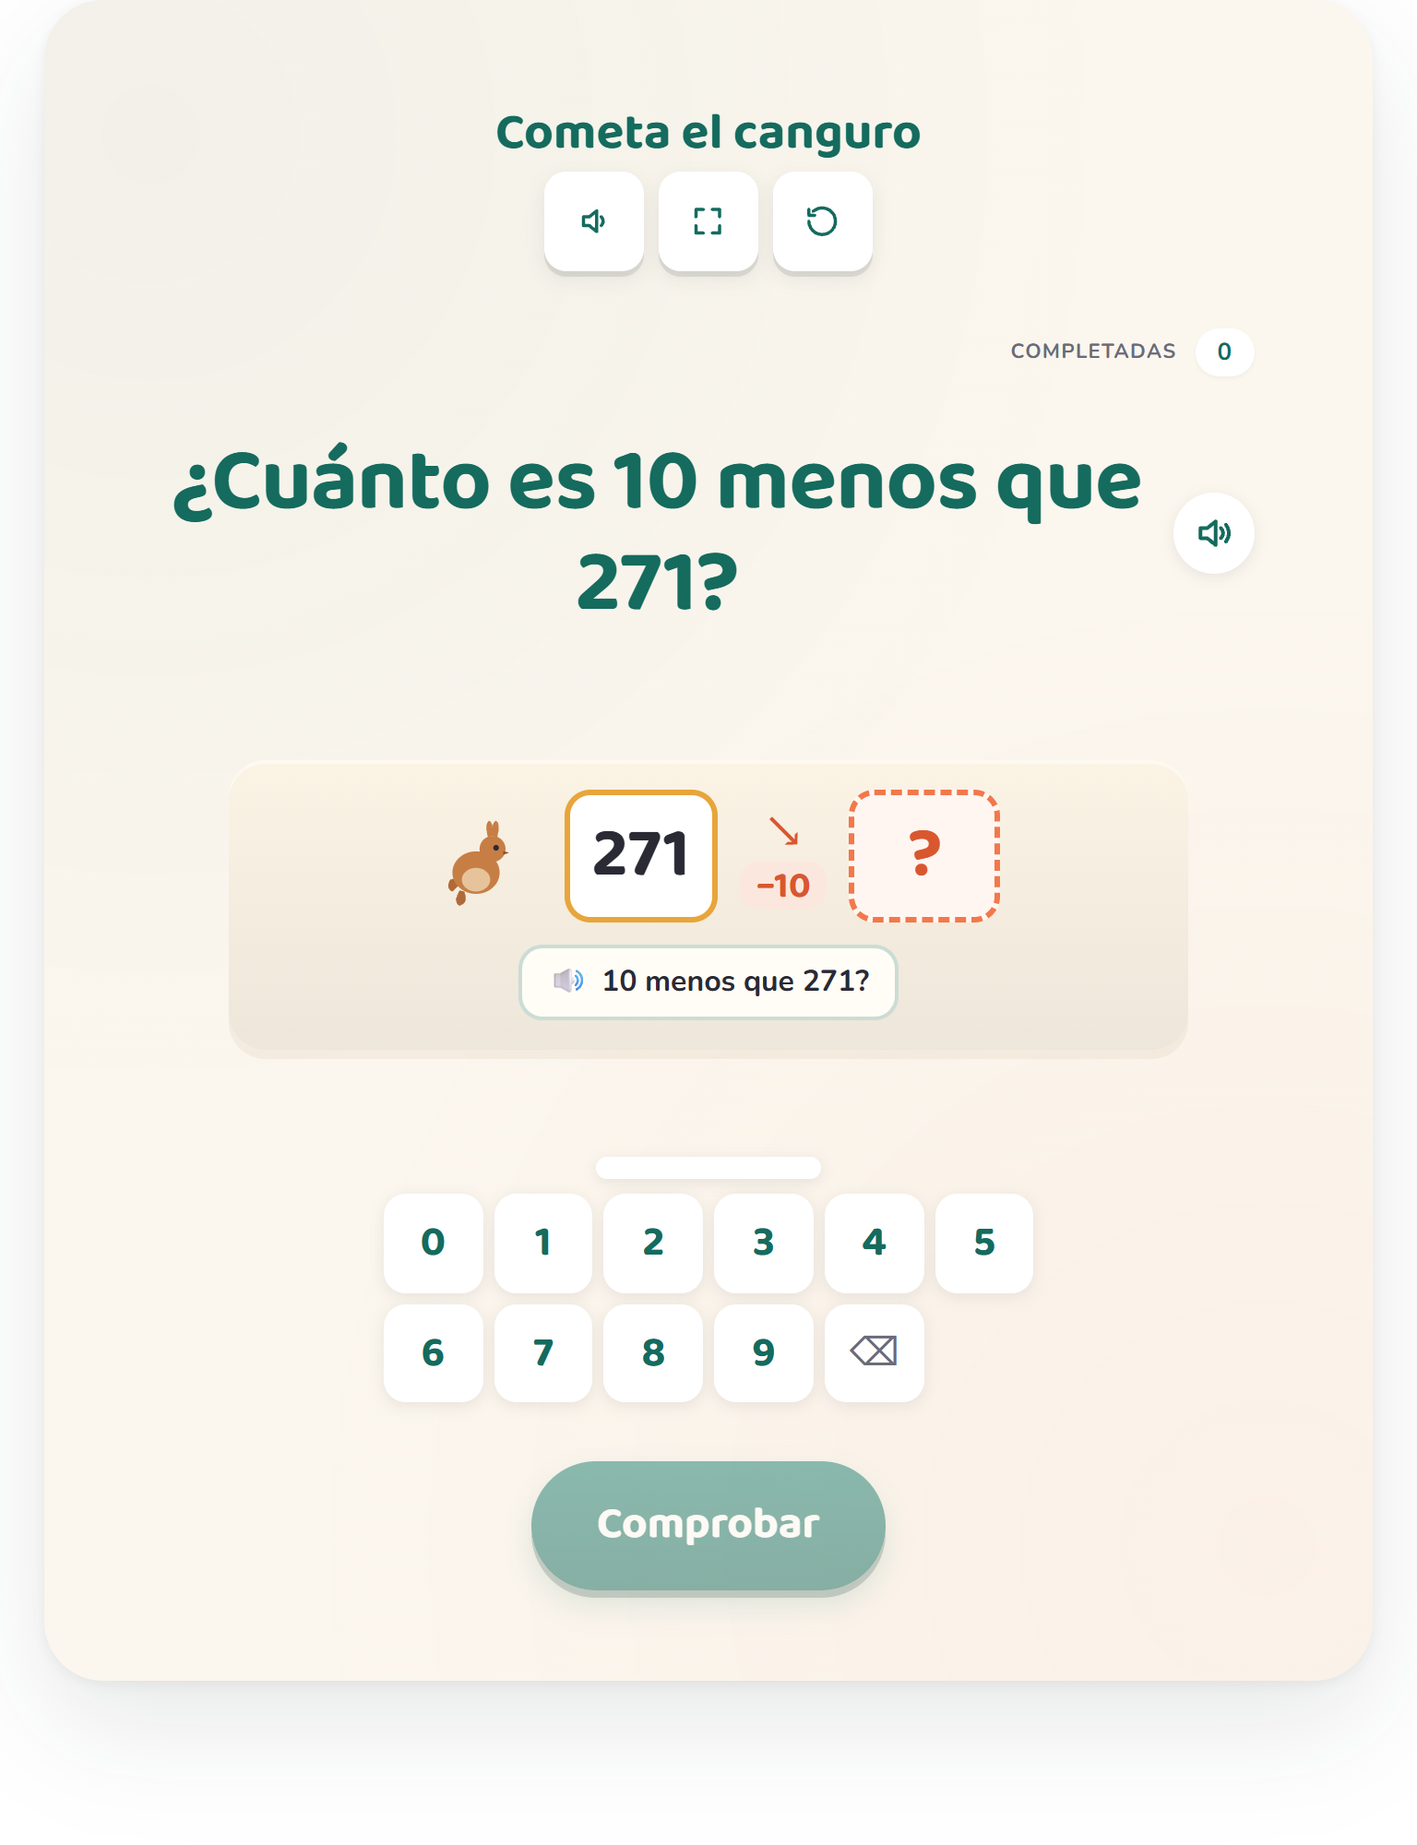
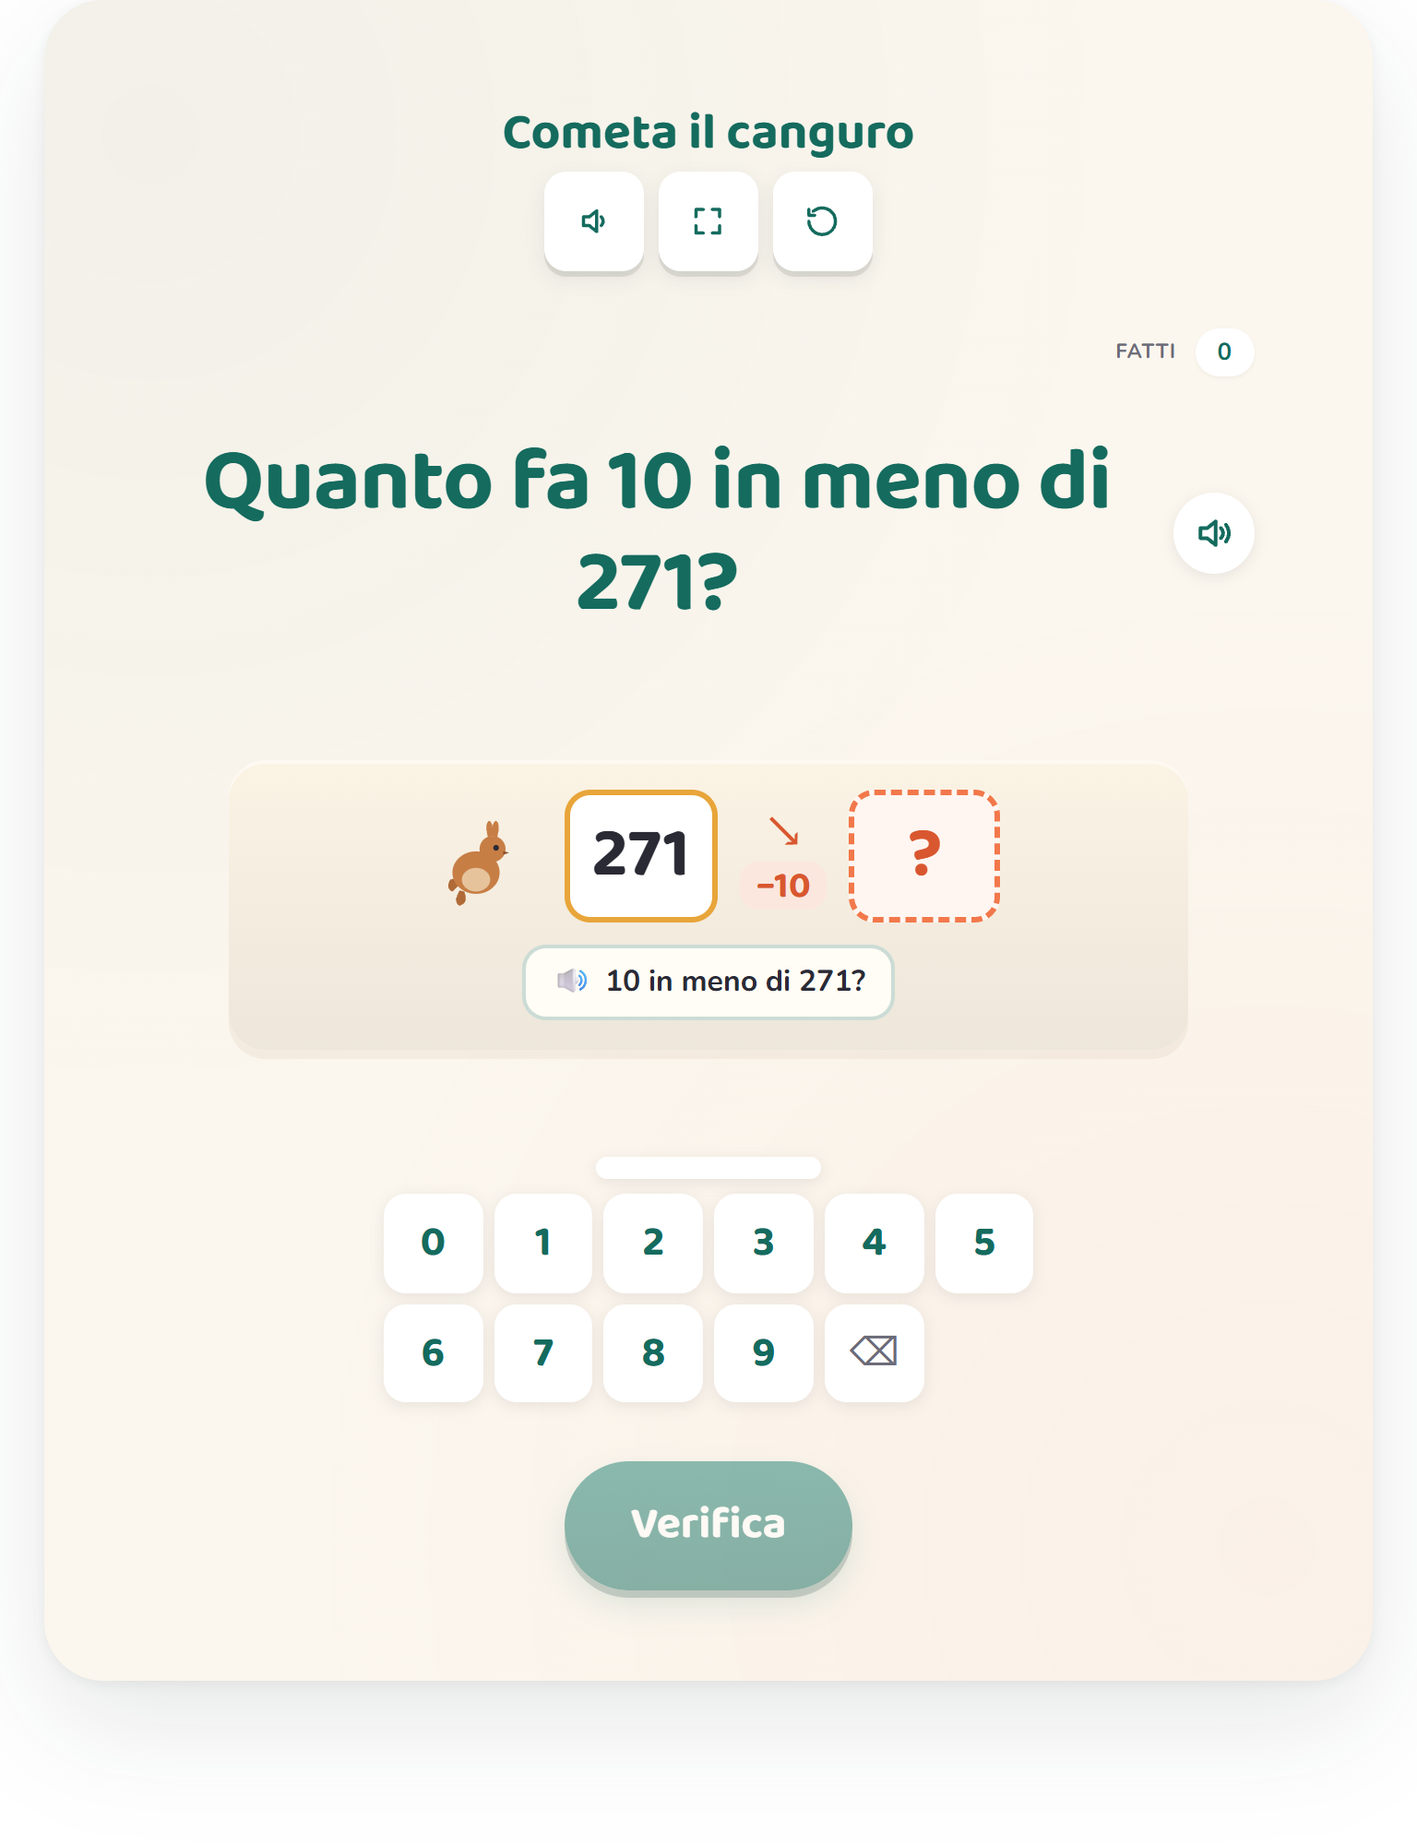
[FEATURE][I18N][IT] comet-kangaroo #41 — Cometa il canguro (10 e 100 in più/in meno, valore posizionale, classe terza)
5th it MATH: 10 & 100 more/less within 1000 + place value / mental math. Cometa the
kangaroo shows a 3-digit number + a signed leap (+10/−10/+100/−100); the child works it
out mentally and types the landing number. Rebuilt for the Indicazioni nazionali.
3-agent native it ensemble.

- Activity-layer only: 0 lines to jump-tens-core.js / lcs-shell.* / Direction-A CSS.
  ⚠ Edited ONLY `mini tools/` — NOT the gitignored stale frontend/public/mini-tools/.
- 4 strings it: + ckgHop/ckgQuestion/promptArgs.hop it arms + speak() it-IT ×2 + 2 aria
  it-arms (Cometa il canguro / ascolta la domanda) + slug/page_title/page_intro it.
- Numbers are DIGITS-only (no ONES_/numWord despite going to ~854 — TTS voices digits
  with the it-IT voice), so no Italian number-word composition needed.
- GRADE classe terza (GRADE_OVERRIDE it:'3', joining de/es/pt) — numbers to 1000 /
  valore posizionale 3 cifre = terza (classe seconda entro il 100); ignore fr's native-2.
- STRAND «Numeri» AUTO (strand-names.ts NBT→«Numeri», NO override).
- ⭐⭐ hop = «10 in più»/«10 in meno» (the COMPARATIVE "more/less than"), NOT «più 10»
  (the signed operator already on the chip); connector «di» → «Quanto fa 10 in più di 247?».
- «Cometa il canguro» (invariable proper name + masc canguro; pronoun-free instruction
  resolves the la-cometa-fem/il-canguro-masc tension).
- 100% apostrophe-free incl. SEO/prose (0 U+2019 anywhere).
- ⚠ hint «cambiano solo le decine/centinaia» is a typical-case heuristic (fails at 9/0
[…]

diff --git a/mini tools/comet-kangaroo-activity.js b/mini tools/comet-kangaroo-activity.js
@@ -21,19 +21,21 @@
 
   var LANG = 'en';
   /* German hop rebuilt from childView's dir+deltaAbs (no core change); the core's hopWord is English */
-  function ckgHop(v) { return LANG === 'de' ? (v.deltaAbs + (v.dir === 'more' ? ' mehr' : ' weniger')) : LANG === 'fr' ? (v.deltaAbs + (v.dir === 'more' ? ' de plus' : ' de moins')) : LANG === 'es' ? (v.deltaAbs + (v.dir === 'more' ? ' más' : ' menos')) : LANG === 'pt' ? (v.deltaAbs + (v.dir === 'more' ? ' a mais' : ' a menos')) : v.hop; }
+  // it — native it math ensemble (Indicazioni, classe terza): «10 in più»/«10 in meno» = the COMPARATIVE "more/less than"
+  // (NOT «più 10» which reads as the signed operator +10, already on the chip); prompt «Quanto fa {hop} di {start}?».
+  function ckgHop(v) { return LANG === 'de' ? (v.deltaAbs + (v.dir === 'more' ? ' mehr' : ' weniger')) : LANG === 'fr' ? (v.deltaAbs + (v.dir === 'more' ? ' de plus' : ' de moins')) : LANG === 'es' ? (v.deltaAbs + (v.dir === 'more' ? ' más' : ' menos')) : LANG === 'pt' ? (v.deltaAbs + (v.dir === 'more' ? ' a mais' : ' a menos')) : LANG === 'it' ? (v.deltaAbs + (v.dir === 'more' ? ' in più' : ' in meno')) : v.hop; }
   function ckgQuestion(v, full) {
     var h = ckgHop(v);
-    return LANG === 'de' ? ((full ? 'Wie viel ist ' : '') + h + ' als ' + v.start + '?') : LANG === 'fr' ? ((full ? 'Combien font ' : '') + h + ' que ' + v.start + ' ?') : LANG === 'es' ? ((full ? '¿Cuánto es ' : '') + h + ' que ' + v.start + '?') : LANG === 'pt' ? ((full ? 'Quanto é ' : '') + h + ' que ' + v.start + '?') : ((full ? 'What is ' : '') + v.hop + ' than ' + v.start + '?');
+    return LANG === 'de' ? ((full ? 'Wie viel ist ' : '') + h + ' als ' + v.start + '?') : LANG === 'fr' ? ((full ? 'Combien font ' : '') + h + ' que ' + v.start + ' ?') : LANG === 'es' ? ((full ? '¿Cuánto es ' : '') + h + ' que ' + v.start + '?') : LANG === 'pt' ? ((full ? 'Quanto é ' : '') + h + ' que ' + v.start + '?') : LANG === 'it' ? ((full ? 'Quanto fa ' : '') + h + ' di ' + v.start + '?') : ((full ? 'What is ' : '') + v.hop + ' than ' + v.start + '?');
   }
 
   function speak(text, rate) {
-    try { if (global.LCSAudio && global.LCSAudio.speak) { global.LCSAudio.speak({ type: 'word', text: text, lang: (LANG === 'es' ? 'es-MX' : LANG === 'pt' ? 'pt-BR' : LANG), rate: rate || 0.95 }); return; }
-      if (global.speechSynthesis && global.SpeechSynthesisUtterance) { var u = new global.SpeechSynthesisUtterance(text); u.rate = rate || 0.95; u.lang = (LANG === 'es' ? 'es-MX' : LANG === 'de' ? 'de-DE' : LANG === 'fr' ? 'fr-FR' : LANG === 'pt' ? 'pt-BR' : 'en-US'); global.speechSynthesis.cancel(); global.speechSynthesis.speak(u); } } catch (e) {}
+    try { if (global.LCSAudio && global.LCSAudio.speak) { global.LCSAudio.speak({ type: 'word', text: text, lang: (LANG === 'es' ? 'es-MX' : LANG === 'pt' ? 'pt-BR' : LANG === 'it' ? 'it-IT' : LANG), rate: rate || 0.95 }); return; }
+      if (global.speechSynthesis && global.SpeechSynthesisUtterance) { var u = new global.SpeechSynthesisUtterance(text); u.rate = rate || 0.95; u.lang = (LANG === 'es' ? 'es-MX' : LANG === 'de' ? 'de-DE' : LANG === 'fr' ? 'fr-FR' : LANG === 'pt' ? 'pt-BR' : LANG === 'it' ? 'it-IT' : 'en-US'); global.speechSynthesis.cancel(); global.speechSynthesis.speak(u); } } catch (e) {}
   }
 
   function kangarooSVG() {
-    return '<svg class="ckg-roo-svg" viewBox="0 0 100 100" role="img" aria-label="' + (LANG === 'de' ? 'Komet das Känguru' : LANG === 'fr' ? 'Comète le kangourou' : LANG === 'es' ? 'Cometa el canguro' : LANG === 'pt' ? 'Cometa, o canguru' : 'Comet the kangaroo') + '">' +
+    return '<svg class="ckg-roo-svg" viewBox="0 0 100 100" role="img" aria-label="' + (LANG === 'de' ? 'Komet das Känguru' : LANG === 'fr' ? 'Comète le kangourou' : LANG === 'es' ? 'Cometa el canguro' : LANG === 'pt' ? 'Cometa, o canguru' : LANG === 'it' ? 'Cometa il canguro' : 'Comet the kangaroo') + '">' +
       '<path d="M30 80 q-6 -2 -2 -10 q4 -2 10 2 Z" fill="#B06A38"/>' +              /* tail */
       '<ellipse cx="50" cy="64" rx="20" ry="18" fill="#C77E45"/>' +                 /* body */
       '<ellipse cx="50" cy="70" rx="12" ry="10" fill="#E6C39B"/>' +                 /* belly */
@@ -50,10 +52,10 @@
     id: 'comet-kangaroo-activity',
 
     strings: {
-      title: { en: "Comet the Kangaroo", de: 'Komet das Känguru', fr: 'Comète le kangourou', es: 'Cometa el canguro', pt: 'Cometa, o canguru' },
-      instruction: { en: 'Comet makes a big leap of 10 or 100. Work out where she lands and type the number.', de: 'Komet macht einen großen Sprung von 10 oder 100. Finde heraus, wo es landet, und tippe die Zahl ein.', fr: 'Comète fait un grand bond de 10 ou 100. Trouve où elle atterrit et tape le nombre.', es: 'Cometa da un gran salto de 10 o de 100. Descubre dónde cae y escribe el número.', pt: 'O Cometa dá um grande salto de 10 ou de 100. Descubra onde ele cai e digite o número.' },
-      prompt: { en: 'What is {hop} than {start}?', de: 'Wie viel ist {hop} als {start}?', fr: 'Combien font {hop} que {start} ?', es: '¿Cuánto es {hop} que {start}?', pt: 'Quanto é {hop} que {start}?' },
-      hint: { en: 'Only the tens or hundreds change — the ones digit stays the same.', de: 'Nur die Zehner oder die Hunderter ändern sich – die Einer bleiben gleich.', fr: 'Seuls les dizaines ou les centaines changent — le chiffre des unités reste le même.', es: 'Solo cambian las decenas o las centenas; las unidades se quedan igual.', pt: 'Só mudam as dezenas ou as centenas; as unidades ficam iguais.' }
+      title: { en: "Comet the Kangaroo", de: 'Komet das Känguru', fr: 'Comète le kangourou', es: 'Cometa el canguro', pt: 'Cometa, o canguru', it: 'Cometa il canguro' },
+      instruction: { en: 'Comet makes a big leap of 10 or 100. Work out where she lands and type the number.', de: 'Komet macht einen großen Sprung von 10 oder 100. Finde heraus, wo es landet, und tippe die Zahl ein.', fr: 'Comète fait un grand bond de 10 ou 100. Trouve où elle atterrit et tape le nombre.', es: 'Cometa da un gran salto de 10 o de 100. Descubre dónde cae y escribe el número.', pt: 'O Cometa dá um grande salto de 10 ou de 100. Descubra onde ele cai e digite o número.', it: 'Cometa fa un grande salto di 10 o di 100. Scopri dove atterra e digita il numero.' },
+      prompt: { en: 'What is {hop} than {start}?', de: 'Wie viel ist {hop} als {start}?', fr: 'Combien font {hop} que {start} ?', es: '¿Cuánto es {hop} que {start}?', pt: 'Quanto é {hop} que {start}?', it: 'Quanto fa {hop} di {start}?' },
+      hint: { en: 'Only the tens or hundreds change — the ones digit stays the same.', de: 'Nur die Zehner oder die Hunderter ändern sich – die Einer bleiben gleich.', fr: 'Seuls les dizaines ou les centaines changent — le chiffre des unités reste le même.', es: 'Solo cambian las decenas o las centenas; las unidades se quedan igual.', pt: 'Só mudam as dezenas ou as centenas; as unidades ficam iguais.', it: 'Cambiano solo le decine o le centinaia: le unità restano uguali.' }
     },
     defaults: {},
 
@@ -89,7 +91,7 @@
       row.appendChild(line);
       root.appendChild(row);
 
-      var read = api.el('button', 'ckg-read'); read.type = 'button'; read.setAttribute('aria-label', LANG === 'de' ? 'Frage anhören' : LANG === 'fr' ? 'écouter la question' : LANG === 'es' ? 'escuchar la pregunta' : LANG === 'pt' ? 'ouvir a pergunta' : 'hear the question');
+      var read = api.el('button', 'ckg-read'); read.type = 'button'; read.setAttribute('aria-label', LANG === 'de' ? 'Frage anhören' : LANG === 'fr' ? 'écouter la question' : LANG === 'es' ? 'escuchar la pregunta' : LANG === 'pt' ? 'ouvir a pergunta' : LANG === 'it' ? 'ascolta la domanda' : 'hear the question');
       read.innerHTML = '<span class="ckg-read-ic">🔊</span> ' + ckgQuestion(v, false);
       read.addEventListener('click', function () { speak(ckgQuestion(v, true)); });
       root.appendChild(read);
@@ -146,7 +148,7 @@
     return (rounds || []).map(function (round, i) {
       return {
         id: 'comet-kangaroo.round-' + i, band: round.band || 1,
-        promptKey: 'prompt', promptArgs: { hop: (LANG === 'de' ? (Math.abs(round.delta) + (round.delta > 0 ? ' mehr' : ' weniger')) : LANG === 'fr' ? (Math.abs(round.delta) + (round.delta > 0 ? ' de plus' : ' de moins')) : LANG === 'es' ? (Math.abs(round.delta) + (round.delta > 0 ? ' más' : ' menos')) : LANG === 'pt' ? (Math.abs(round.delta) + (round.delta > 0 ? ' a mais' : ' a menos')) : Core.hopWord(round)), start: round.start },
+        promptKey: 'prompt', promptArgs: { hop: (LANG === 'de' ? (Math.abs(round.delta) + (round.delta > 0 ? ' mehr' : ' weniger')) : LANG === 'fr' ? (Math.abs(round.delta) + (round.delta > 0 ? ' de plus' : ' de moins')) : LANG === 'es' ? (Math.abs(round.delta) + (round.delta > 0 ? ' más' : ' menos')) : LANG === 'pt' ? (Math.abs(round.delta) + (round.delta > 0 ? ' a mais' : ' a menos')) : LANG === 'it' ? (Math.abs(round.delta) + (round.delta > 0 ? ' in più' : ' in meno')) : Core.hopWord(round)), start: round.start },
         answerType: 'number', answerMin: 0, answerMax: 1000,
         setup: function (tool) { tool.setupTask(round); },
         check: function (tool, answer) { return Core.isAnswer(round, answer); },

diff --git a/frontend/app/[locale]/activities/[slug]/page.tsx b/frontend/app/[locale]/activities/[slug]/page.tsx
@@ -92,7 +92,7 @@ const GRADE_OVERRIDE: Record<string, Record<string, string>> = {
   'sunny-side-diner.compound-order.l-k-1-f': { fr: '1' },                // FR CP: produire une phrase complète + coordonner deux groupes avec « et » = charnière oral→écrit CP (au-dessus de la production orale GS, en deçà de l'analyse CE1); native 'K'→« Grande section » too low; en Kindergarten unchanged
   'echo-grove.match-the-rune.3-oa-a-1': { de: '2', fr: '2', es: '2', pt: '2', it: '2' },    // Multiplikation als gleiche Gruppen / kleines Einmaleins = DE Klasse 2 (US Grade 3 a year higher). FR CE1 (operator-ruled): le sens de la multiplication (groupes égaux, petits nombres, avant les tables) = attendu CE1 (CE2 = tables + multiplication posée); native '3'→CE2 too high; de Klasse-2 ≈ fr-CE1; twin of maple-bakery division-sens; « Nombres et calcul » auto-map → NO STRAND override. ES: la multiplicación como grupos iguales / suma de sumandos iguales = 2.º primaria en SEP/NEM (las tablas formales → 3.º); espeja numbers-court/ten-stones es:'2'. Strand auto "Sentido numérico" → NO STRAND override. PT: multiplicação como grupos iguais / adição de parcelas iguais = BNCC 2º ano (EF02MA07/08) → espelha es; ⚠ PT strand-map auto → "Álgebra" (ERRADO p/ 3.OA no BR) → STRAND override pt:"Números". IT: la moltiplicazione come gruppi uguali / raggruppamenti (numeri piccoli, il SENSO prima delle tabelline) = classe seconda nelle Indicazioni (le tabelline sistematiche = traguardo classe terza); strand auto → «Numeri» (nucleo corretto, NIENTE «Algebra» nella primaria) → NO STRAND override (a differenza di pt)
   'maple-bakery.share.3-oa-a-2': { de: '2', fr: '2', it: '2' },                    // Division (Verteilen/Aufteilen, ohne Rest) introduced alongside Einmaleins = DE Klasse 2. FR CE1 (operator-ruled): division-SENS (partage/groupement, petits nombres, sans reste, imagé) = l'approche de la division au CE1 (CE2 formalise le quotient/reste); native '3'→CE2 too high; de Klasse-2 re-grade ≈ fr CE1; « Nombres et calcul » auto-map → NO STRAND override. ES: NO override — en MX la división (reparto/agrupamiento) entra en 3.º primaria, un año DESPUÉS de la multiplicación (#38 echo-grove es:'2'); grado nativo 3 → "3.º de primaria" (asimetría deliberada mult 2.º / div 3.º — NO igualar a echo-grove). Strand auto "Sentido numérico" → NO STRAND override. IT: classe seconda — l'Italia segue il pattern de/fr (moltiplicazione e divisione = coppia inversa nello STESSO anno; la divisione [reparto/raggruppamento, senza resto, per immagini] entra nel 2º quadrimestre di classe seconda; la divisione in colonna + il resto = classe terza) → it si UNISCE a de/fr a '2', NON alla asimmetria es/pt native-3; strand auto → «Numeri» (NIENTE «Algebra» nella primaria) → NO STRAND override
-  'comet-kangaroo.tens-hundreds.2-nbt-b-8': { de: '3', es: '3', pt: '3' },         // 10/100 mehr-weniger im ZR bis 1000 = DE Klasse 3 (Tausenderraum; Klasse 2 = bis 100). ES: números hasta 1000 / valor posicional de 3 cifras = 3.º primaria en MX; espeja place-value-regroup 2-nbt-b-7 es:'3' (bis-1000 = 3º). PT: valor posicional de 3 algarismos + 10/100 a mais/a menos até 1000 = BNCC 3º ano (EF03MA01/02 números até milhar + composição/valor posicional; EF03MA05 cálculo mental); 2º = até centenas com material manipulável → o campo abstrato até 1000 é o salto 2º→3º. Strand auto-map (NBT→"Números") já correto → SEM STRAND_OVERRIDE pt
+  'comet-kangaroo.tens-hundreds.2-nbt-b-8': { de: '3', es: '3', pt: '3', it: '3' },         // 10/100 mehr-weniger im ZR bis 1000 = DE Klasse 3 (Tausenderraum; Klasse 2 = bis 100). ES: números hasta 1000 / valor posicional de 3 cifras = 3.º primaria en MX; espeja place-value-regroup 2-nbt-b-7 es:'3' (bis-1000 = 3º). PT: valor posicional de 3 algarismos + 10/100 a mais/a menos até 1000 = BNCC 3º ano (EF03MA01/02 números até milhar + composição/valor posicional; EF03MA05 cálculo mental); 2º = até centenas com material manipulável → o campo abstrato até 1000 é o salto 2º→3º. Strand auto-map (NBT→"Números") já correto → SEM STRAND_OVERRIDE pt. IT: i numeri fino a 1000 / valore posizionale 3 cifre / calcolo mentale «10 in più / 100 in meno» = classe terza (classe seconda entro il 100) → it:'3' come de/es/pt; strand auto NBT→«Numeri» → NO STRAND override
   'track-repair.count-to-120.1-nbt-a-1': { de: '2', fr: '1' },            // Orientierung am Zahlenstrahl bis 100 + skip-counting = DE Klasse 2 (ZR bis 20 = Klasse 1); US Grade 1 offset. FR CP (operator-ruled): la ligne numérique + compter en avant/arrière + de 5 en 5 / de 10 en 10 + placer les nombres jusqu'à ~100 = attendus du CP; la France fait 100 au CP (là où l'Allemagne a besoin de Klasse 2 — posy #71 precedent); le franchissement de la centaine (~103) = extension de fin de CP, pas le CE1 (jusqu'à 1000); CP → l'auto-map « Nombres et calcul » est correct → NO fr STRAND override
   'bos-berry-pantry.slingshot-tens.1-nbt-b-2': { de: '2', pt: '2' },       // read/match two-digit Stellenwert (values to 85, multiple tens, ZR bis 100) → DE Klasse 2 (Klasse 1 = ZR bis 20); bundle-bot precedent. PT 2º ano (pedagogue-decisive): valor posicional/SND (unitizing "a crate IS a ten" + função do zero via 40/70) = BNCC EF02MA01/EF02MA04 (2º ano); 1º ano = número-como-quantidade sem valor posicional formal; es/fr introduce dizaines at grade 1 by their own curriculum, BNCC defers
   'vet-diagnosis.word-problems.1-oa-a-1': { de: '2', fr: '2', es: '2', pt: '2' },  // Sachaufgaben ZR bis 20 BUT grade follows STRUCTURE: Anfang-unbekannt + additiver Vergleich = schwierigste Klasse-2 Sachaufgabentypen; length-sibling precedent. fr → CE1 (same structural logic). es → 2.º primaria (SEP: incógnita-al-inicio reversa + comparación aditiva = tipos más difíciles, 2.º; converge con de/fr); pt → 2º ano (BNCC EF02MA06 é a 1ª habilidade a incluir os significados comparar+completar; EF01MA08 só juntar/acrescentar/separar/retirar e restrito a problemas modeláveis "com o suporte de imagens", que as rodadas de início-desconhecido deduzido excedem); en stays Grade 1 native; strand falls through auto-map (es « Sentido numérico »)
@@ -547,7 +547,7 @@ export default async function ActivityPage({ params }: { params: PageParams }) {
   // applied here to the iframe-loaded wrapper URL (the only un-busted
   // link in the activity-page → mini-tool chain). The wrapper reads
   // only `activity` / `lang` / `embed` params; `v` is harmless to it.
-  const ACTIVITY_WRAPPER_VERSION = '9.493';
+  const ACTIVITY_WRAPPER_VERSION = '9.494';
 
   const iframeSrc =
     `/mini-tools/${row.tool}.html?v=${ACTIVITY_WRAPPER_VERSION}` +

diff --git a/mini tools/comet-kangaroo-activity.html b/mini tools/comet-kangaroo-activity.html
@@ -17,7 +17,7 @@
        NOTE: bump ?v=N on EVERY change to comet-kangaroo-activity.js / jump-tens-core.js (§A.13.42). -->
   <script src="/mini-tools/lcs-shell.js?v=5"></script>
   <script src="/mini-tools/jump-tens-core.js?v=1"></script>
-  <script src="/mini-tools/comet-kangaroo-activity.js?v=5"></script>
+  <script src="/mini-tools/comet-kangaroo-activity.js?v=6"></script>
   <script>
     LCS.mount(CometKangarooActivity, { mount: '#lcs-root' });
   </script>
